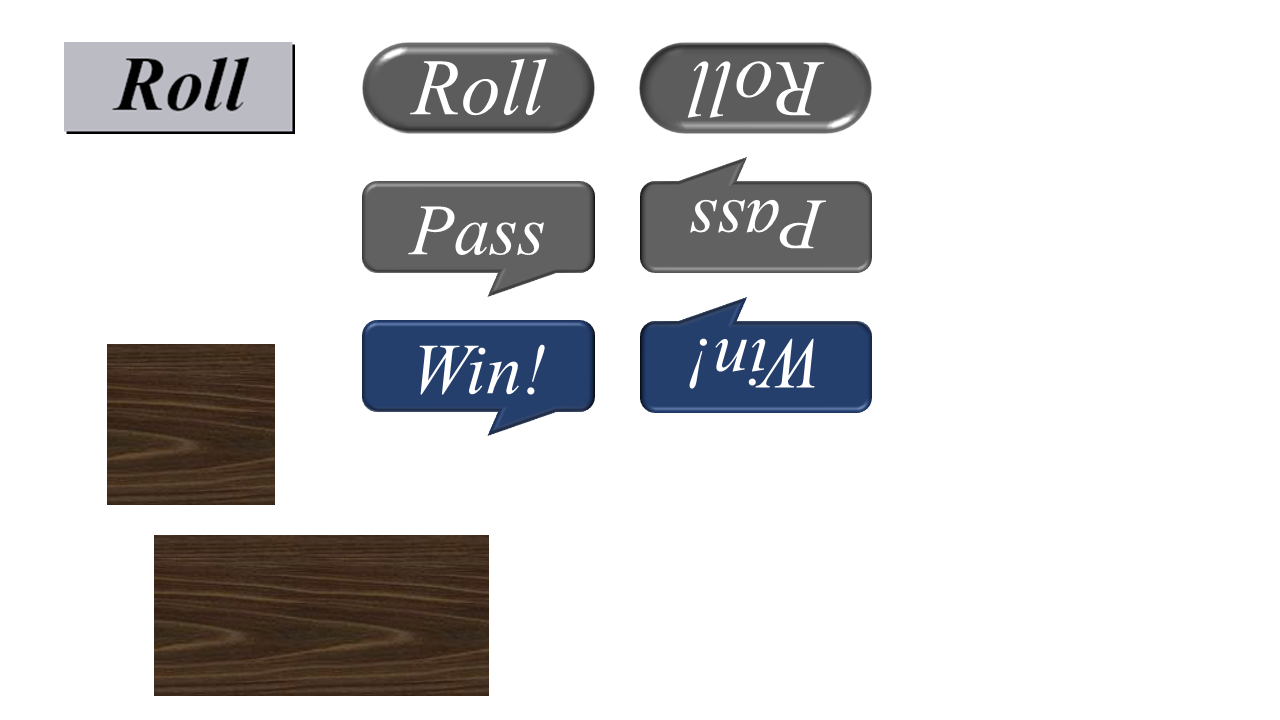
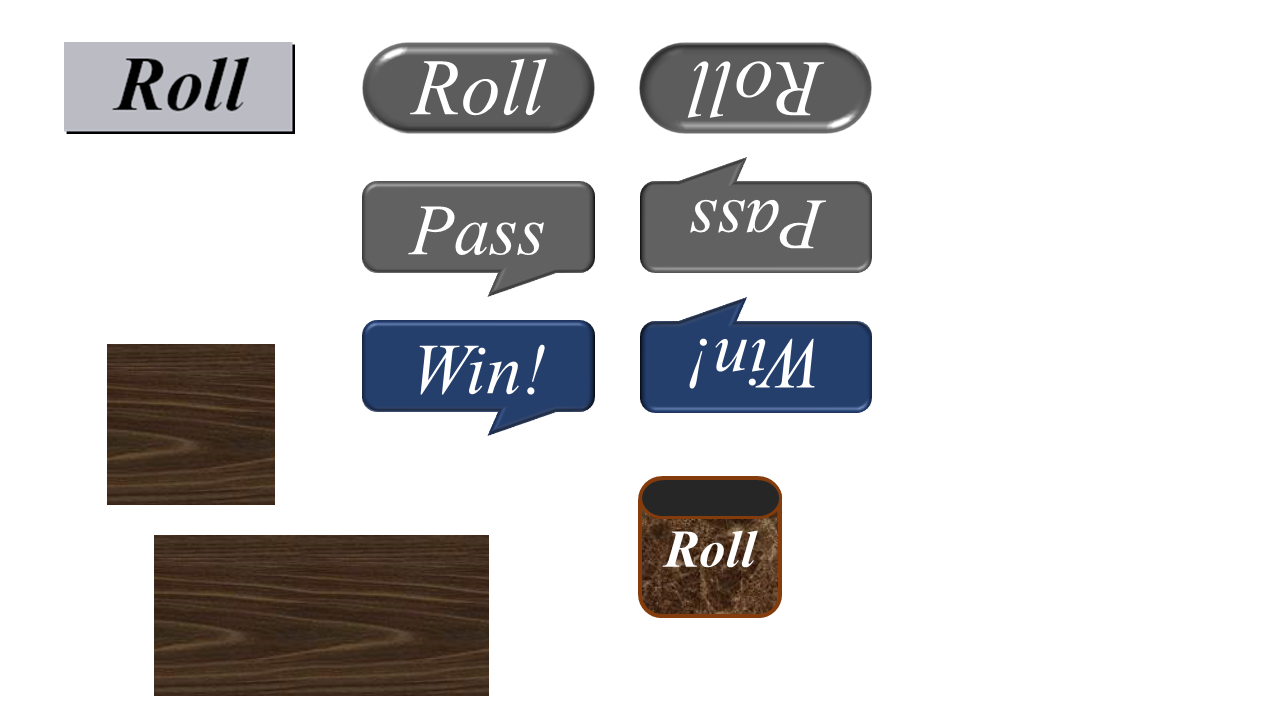
0.58/0.64 Dice cup

Changed region(s): [[0.5, 0.6417, 0.625, 0.8556]]

diff --git a/app/static/ytbg.js b/app/static/ytbg.js
@@ -48,7 +48,8 @@
  *=====================================================
  */
 const MY_NAME = "ytBackgammon Client";
-const VERSION = "0.63";
+const VERSION = "0.64";
+
 const GAMEINFO_FILE = "gameinfo.json";
 
 let ws = undefined;
@@ -387,10 +388,35 @@ class ImageItem extends BackgammonArea {
     } // ImageItem.get_xy()
 
     /**
+     * @param {number} x
+     * @param {number} y
+     */
+    on_mouse_down_xy(x, y) {
+        // to be overridden
+    } // ImageItem.on_mouse_down_xy()
+
+    /**
+     * @param {number} x
+     * @param {number} y
+     */
+    on_mouse_up_xy(x, y) {
+        // to be overridden
+    } // ImageItem.on_mouse_down_xy()
+
+    /**
+     * @param {number} x
+     * @param {number} y
+     */
+    on_mouse_move_xy(x, y) {
+        // to be overridden
+    } // ImageItem.on_mouse_down_xy()
+
+    /**
      * @param {MouseEvent} e
      */
     on_mouse_down(e) {
         let [x, y] = this.get_xy(e);
+        this.on_mouse_down_xy(x, y);
     } // ImageItem.on_mouse_down()
 
     /**
@@ -398,6 +424,7 @@ class ImageItem extends BackgammonArea {
      */
     on_mouse_up(e) {
         let [x, y] = this.get_xy(e);
+        this.on_mouse_up_xy(x, y);
     } // ImageItem.on_mouse_up()
 
     /**
@@ -405,6 +432,7 @@ class ImageItem extends BackgammonArea {
      */
     on_mouse_move(e) {
         let [x, y] = this.get_xy(e);
+        this.on_mouse_move_xy(x, y);
     } // ImageItem.on_mouse_move()
 
     /**
@@ -720,7 +748,7 @@ class BannerButton extends PlayerItem {
     constructor(id, board, player, x, y) {
         super(id, board, player, x, y);
 
-        this.el.style.opacity = 0.8;
+        this.el.style.opacity = 0.9;
         this.move(this.x, this.y);
 
         this.off();
@@ -924,20 +952,25 @@ class RollButton extends BannerButton {
         this.board.dice_histogram[this.player][value2 - 1]++;
         console.log("RollButton.roll>"
                     + `dice_histogram=${JSON.stringify(this.board.dice_histogram)}`);
-        let histogram_str = "| ";
+        let histogram_str = "";
         for (let p=0; p < 2; p++) {
+            /*
             let sum = 0;
             for (let i=0; i < 6; i++) {
                 sum += this.board.dice_histogram[p][i];
             } // for (i)
+            */
             for (let i=0; i < 6; i++) {
                 let a = 0;
+                /*
                 if ( sum > 0 ) {
                     a = Math.floor(this.board.dice_histogram[p][i] / sum * 100);
                 }
+                */
+                a = this.board.dice_histogram[p][i];
                 histogram_str += a + " ";
             } // for (i)
-            histogram_str += "| ";
+            histogram_str += "<br />";
         } // for(p)
         console.log(`histogram_str=${histogram_str}`);
         document.getElementById("dice-histogram").innerHTML = histogram_str;
@@ -1017,7 +1050,6 @@ class RollButton extends BannerButton {
 class PassButton extends BannerButton {
     constructor(id, board, player, x, y) {
         super(id, board, player, x, y);
-        this.el.style.opacity = 0.9;
     } // PassButton.constructor()
 
     /**
@@ -1029,7 +1061,7 @@ class PassButton extends BannerButton {
                     + `player=${this.player}`);
 
         this.off();
-        this.board.emit_turn(1 - this.player);
+        this.board.emit_turn(1 - this.player, true);
     } // PassButton.on_mouse_down()
 } // class PassButton
 
@@ -1039,7 +1071,6 @@ class PassButton extends BannerButton {
 class WinButton extends BannerButton {
     constructor(id, board, player, x, y) {
         super(id, board, player, x, y);
-        this.el.style.opacity = 0.9;
     } // WinButton.constructor()
 
     /**
@@ -1083,18 +1114,18 @@ class PlayerName extends PlayerItem {
     } // PlayerName.set()
 
     on() {
-        this.el.style.borderColor = "rgba(0, 128, 255, 0.8)";
-        this.el.style.color = "rgba(0, 128, 255, 0.8)";
+        // this.el.style.borderColor = "rgba(255, 255, 255, 0.8)";
+        this.el.style.color = "rgba(255, 255, 128, 0.8)";
     }
 
     red() {
-        this.el.style.borderColor = "rgba(255, 0, 0, 0.8)";
+        // this.el.style.borderColor = "rgba(255, 0, 0, 0.8)";
         this.el.style.color = "rgba(255, 0, 0, 0.8)";
     }
 
     off() {
-        this.el.style.borderColor = "rgba(64, 64, 64, 0.4)";
-        this.el.style.color = "rgba(64, 64, 64, 0.4)";
+        // this.el.style.borderColor = "rgba(0, 0, 0, 0.8)";
+        this.el.style.color = "rgba(0, 0, 0, 0.8)";
     }
 } // class PlayerName
 
@@ -1109,12 +1140,14 @@ class Dice extends PlayerItem {
 
         [this.x1, this.y1] = [x1, y1];
 
+        const offset0 = 5;
+        
         if ( this.player == 0 ) {
-            this.x0 = this.board.w - this.w / 2;
-            this.y0 = this.board.h - this.h / 2;
+            this.x0 = this.board.w - this.w / 2 - offset0;
+            this.y0 = this.board.h - this.h / 2 - offset0;
         } else {
-            this.x0 = this.w / 2;
-            this.y0 = this.h / 2;
+            this.x0 = this.w / 2 + offset0;
+            this.y0 = this.h / 2 + offset0;
         }
 
         this.deg = 0;
@@ -1431,10 +1464,10 @@ class Checker extends PlayerItem {
     } // Checker.get_available_points()
 
     /**
-     *
+     * @param {number} x
+     * @param {number} y
      */
-    on_mouse_down(e) {
-        let [x, y] = this.get_xy(e);
+    on_mouse_down_xy(x, y) {
         console.log(`Checker.on_mouse_down> this.id=${this.id},(x,y)=${x},${y})`);
         
         if ( ! board.free_move ) {
@@ -1478,13 +1511,13 @@ class Checker extends PlayerItem {
 
         ch.move(x, y, true);
         ch.set_z(1000);
-    } // Checker.on_mosue_down()
+    } // Checker.on_mouse_down_xy()
 
     /**
-     * @param {MouseEvent} e
+     * @param {number} x
+     * @param {number} y
      */
-    on_mouse_up(e) {
-        let [x, y] = this.get_xy(e);
+    on_mouse_up_xy(x, y) {
         console.log(`Checker.on_mouse_up> this.id=${this.id},x=${x},y=${y}`);
 
         const ch = this.board.moving_checker;
@@ -1644,11 +1677,10 @@ class Checker extends PlayerItem {
     } // Checker.on_mouse_up()
 
     /**
-     *
+     * @param {number} x
+     * @param {number} y
      */
-    on_mouse_move(e) {
-        let [x, y] = this.get_xy(e);
-
+    on_mouse_move_xy(x, y) {
         let ch = this.board.moving_checker;
         if ( ch === undefined ) {
             return;
@@ -1659,7 +1691,6 @@ class Checker extends PlayerItem {
 } // class Checker
 
 /**
- *
  *           bx[0]                  bx[3]                 bx[5]
  *           |   bx[1]              |   bx[4]             |bx[6]
  *         x |   |bx[2]             |   |                 ||   bx[7]
@@ -1702,6 +1733,9 @@ class Board extends ImageItem {
 
         this.free_move = false;
         
+        this.bx = [27, 81, 108, 432, 495, 819, 846];
+        this.by = [30, 520];
+
         // server ID
         this.svr_id = document.getElementById("server-id").innerHTML;
         console.log(`Board> svr_id=${this.svr_id}`);
@@ -1723,11 +1757,6 @@ class Board extends ImageItem {
         }
 
         this.turn = -1;
-
-        this.bx = [27, 81, 108, 432, 540, 864, 891, 945];
-        this.by = [20, 509];
-        [this.tx, this.ty] = [this.bx[4]+5, 246];
-        [this.tx2, this.ty2] = [this.bx[4]+150, this.by[0]+205];
 
         this.gameinfo = undefined;
 
@@ -1753,15 +1782,15 @@ class Board extends ImageItem {
         // <body>
         let body_el = document.body;
         body_el.style.width = (
-            this.button_back.x + this.button_back.w + 100) + "px";
+            this.button_back.x + this.button_back.w + 50) + "px";
         body_el.style.height = (this.y + this.h + 10) + "px";
 
         // PlayerName
         this.playername = [];
         this.playername.push(new PlayerName(
-            "p0text", this, 0, this.tx, this.ty));
+            "p0text", this, 0, this.bx[4], this.by[1] + 4));
         this.playername.push(new PlayerName(
-            "p1text", this, 1, this.w - this.tx, this.h - this.ty));
+            "p1text", this, 1, this.bx[3], this.by[0] - 4));
         this.playername[1].rotate(180);
 
         for (let p=0; p < 2; p++) {

diff --git a/app/ytbg.html b/app/ytbg.html
@@ -7,10 +7,10 @@
     <meta http-equiv="Cache-Control" content="no-cache">
     <meta http-equiv="Expires" content="0">
     <meta name="viewport"
-          content="width=device-width, initial-scale=1, minimum-scale=0.1, maximum-scale=3">
+          content="width=device-width, initial-scale=0.4, minimum-scale=0.05, maximum-scale=3">
     <title>ytBackgammon: network shared backgammon board (alpha)</title>
   </head>
-  <body style="background-image:url(./bg.png);">
+  <body style="background-image:url(./bg.png);width:1200px;">
     <h1 style="color:#AAA;">【ytBackgammon】</h1>
     <h2 style="color:#AAA;">ネットワーク共有型バックギャモンボード</h2>
     <h2 style="color:#AAA;">(network shared backgammon board)</h2>
@@ -18,22 +18,22 @@
     <h1><a href="http://www.ytani.net:5001/"
            target="_blank" style="color:#AAA;">[ Board 1 ]</a></h1>
     <iframe src="http://www.ytani.net:5001"
-            width="1220px" height="630px"
+            width="1150px" height="630px"
             style="transform:scale(1);"></iframe>
     <h1><a href="http://www.ytani.net:5002/"
            target="_blank" style="color:#AAA;">[ Board 2 ]</a></h1>
     <iframe src="http://www.ytani.net:5002"
-            width="1220px" height="620px"
+            width="1150px" height="620px"
             style="transform:scale(1);"></iframe>
     <h1><a href="http://www.ytani.net:5003/"
            target="_blank" style="color:#AAA;">[ Board 3 ]</a></h1>
     <iframe src="http://www.ytani.net:5003"
-            width="1220px" height="620px"
+            width="1150px" height="620px"
             style="transform:scale(1);"></iframe>
     <h1><a href="http://www.ytani.net:5004/"
            target="_blank" style="color:#AAA;">[ Board 4 ]</a></h1>
     <iframe src="http://www.ytani.net:5004"
-            width="1220px" height="620px"
+            width="1150px" height="620px"
             style="transform:scale(1);"></iframe>
     <br />
     <!-- 

diff --git a/app/templates/index.html b/app/templates/index.html
@@ -7,7 +7,7 @@
     <meta http-equiv="Cache-Control" content="no-cache">
     <meta http-equiv="Expires" content="0">
     <meta name="viewport"
-          content="width=device-width, initial-scale=1, minimum-scale=0.1, maximum-scale=3">
+          content="width=device-width, initial-scale=0.4, minimum-scale=0.05, maximum-scale=3">
     <title>ytBackgammon (alpha)</title>
     <script
       type="text/javascript"
@@ -37,7 +37,7 @@
       head_el.appendChild(css_el);
     </script>
   </head>
-  <body style="background-image:url(/static/images/bg.png);">
+  <body>
     <header>
       <div id="server-id" style="display:none;">{{server_id}}</div>
       <div id="nav-drawer" style="display:inline-block;">
@@ -133,10 +133,12 @@
 
         <div id="cube"><image src="/static/images/cube01.png"></div>
 
-        <div id="rollbutton0"><image src="/static/images/roll0.png"
-                                     width="200px"></div>
-        <div id="rollbutton1"><image src="/static/images/roll1.png"
-                                     width="200px"></div>
+        <div id="rollbutton0"><image src="/static/images/dicecup.png"
+                                     width="100px"
+                                     style="transform:rotate(-20deg);"></div>
+        <div id="rollbutton1"><image src="/static/images/dicecup.png"
+                                     width="100px"
+                                     style="transform:rotate(160deg);"></div>
 
         <div id="passbutton0"><image src="/static/images/pass0.png"
                                      width="180px"></div>

diff --git a/app/static/ytbg.css b/app/static/ytbg.css
@@ -3,8 +3,11 @@
 }
 
 body {
-/*    background-image: url("http://www.ytani.net:5001/static/images/bg.png");*/
-    background-color: #DDD;
+    background-image: url("/static/images/bg.png");
+    /*
+    background-color: rgba(255, 255, 255, 0.1);
+    background-blend-mode: lighten;
+    */
 }
 
 div, span {
@@ -14,9 +17,11 @@ div, span {
 }
 
 .onboardtext {
+    /*
     border: 4px solid;
     border-color: rgba(255,255,255,1);
     padding: 3px;
+    */
     color: rgba(255,255,255,1);
     font-weight: bold;
 }
@@ -109,7 +114,7 @@ header {
   top: 0;
   left: 0;
   z-index: 9999;/*最前面に*/
-  width: 90%;/*右側に隙間を作る（閉じるカバーを表示）*/
+  width: 90%; /*右側に隙間を作る（閉じるカバーを表示）*/
   max-width: 220px;/*最大幅（調整してください）*/
   height: 100%;
   background: #fff;/*背景色*/

diff --git a/app/ytbg.py b/app/ytbg.py
@@ -17,7 +17,7 @@ import click
 CONTEXT_SETTINGS = dict(help_option_names=['-h', '--help'])
 
 MY_NAME = 'ytBackgammon Server'
-VERSION = '0.57'
+VERSION = '0.58'
 
 _log = get_logger(__name__, True)
 
